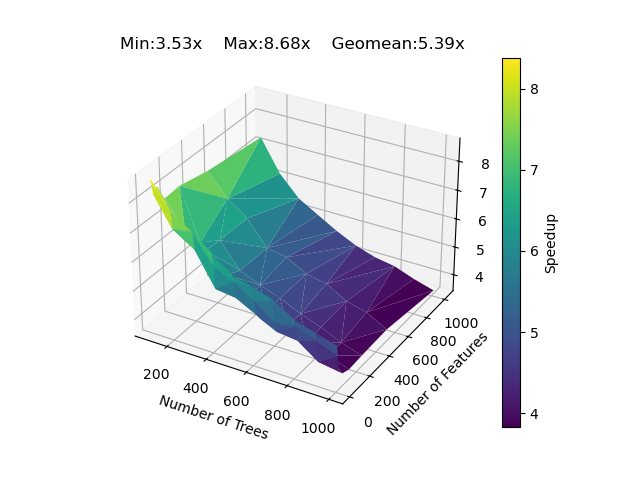
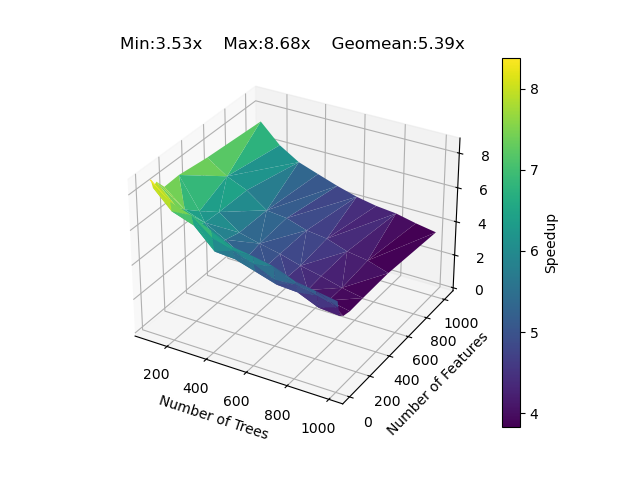
Change 3d plot axis limit

diff --git a/results/python/analyze_random_model_benchmark_results.py b/results/python/analyze_random_model_benchmark_results.py
@@ -1,9 +1,9 @@
 import os
 import matplotlib.pyplot as plt
 
-batch_size = 512
-# file_path = "/home/ashwin/mlir-build/llvm-project/mlir/examples/treebeard/results/thedeep/gpu/random_models/20240320/random_cmp_output_mp.txt"
-file_path = "/home/ashwin/mlir-build/llvm-project/mlir/examples/treebeard/results/thedeep/gpu/random_models/20240320/random_cmp_output_mp_b512.txt"
+batch_size = 4096
+file_path = "/home/ashwin/mlir-build/llvm-project/mlir/examples/treebeard/results/thedeep/gpu/random_models/20240320/random_cmp_output_mp.txt"
+# file_path = "/home/ashwin/mlir-build/llvm-project/mlir/examples/treebeard/results/thedeep/gpu/random_models/20240320/random_cmp_output_mp_b512.txt"
 # file_path = "/home/ashwin/mlir-build/llvm-project/mlir/examples/treebeard/results/thedeep/gpu/random_models/20240320/random_cmp_output_mp_b4k_ft500.txt"
 
 # read the file line by line and filter out lines that don't start with "/"
@@ -53,47 +53,46 @@ import scipy.stats as stats
 # print(stats.gmean(df["tb_kernel_speedup"]))
 #print(df["tb_kernel_speedup"].prod() ** (1.0 / df.shape[0]))
 
-# for depth in range(6, 9):
-#     # get entries with tree_depth == depth
-#     df_depth = df[df["tree_depth"] == depth]
-#     # print(df_depth.shape)
+for depth in range(6, 9):
+    # get entries with tree_depth == depth
+    df_depth = df[df["tree_depth"] == depth]
+    # print(df_depth.shape)
 
-#     # plot a 3-d graph of num_trees, num_features and tb_kernel_speedup
-#     import matplotlib.pyplot as plt
-#     from mpl_toolkits.mplot3d import Axes3D
+    # plot a 3-d graph of num_trees, num_features and tb_kernel_speedup
 
-#     fig = plt.figure()
-#     ax = fig.add_subplot(111, projection='3d')
+    fig = plt.figure()
+    ax = fig.add_subplot(111, projection='3d')
 
-#     # 3D scatter plot
-#     # ax.scatter3D(df_depth["num_trees"], df_depth["num_features"], df_depth["tb_kernel_speedup"], c='red')
-#     surf = ax.plot_trisurf(df_depth["num_trees"], df_depth["num_features"], df_depth["tb_kernel_speedup"], cmap='viridis')
+    # 3D scatter plot
+    # ax.scatter3D(df_depth["num_trees"], df_depth["num_features"], df_depth["tb_kernel_speedup"], c='red')
+    surf = ax.plot_trisurf(df_depth["num_trees"], df_depth["num_features"], df_depth["tb_kernel_speedup"], cmap='viridis')
 
-#     ax.set_xlabel('Number of Trees')
-#     ax.set_ylabel('Number of Features')
-#     ax.set_zlabel('Speedup')
-#     min_speedup = df_depth["tb_kernel_speedup"].min()
-#     max_speedup = df_depth["tb_kernel_speedup"].max()
-#     geomean_speedup = stats.gmean(df_depth["tb_kernel_speedup"])
-#     # limit the speedup values to 1 decimal digit
-#     plt.title(f"Min:{min_speedup:.2f}x    Max:{max_speedup:.2f}x    Geomean:{geomean_speedup:.2f}x")
-#     plt.colorbar(surf, label='Speedup')
-#     plt.savefig(f'kernel_speedup_b{batch_size}_depth{depth}.png')
-#     # plt.show()
+    ax.set_xlabel('Number of Trees')
+    ax.set_ylabel('Number of Features')
+    ax.set_zlabel('Speedup')
+    min_speedup = df_depth["tb_kernel_speedup"].min()
+    ax.set_zlim3d(zmin=0)
+    max_speedup = df_depth["tb_kernel_speedup"].max()
+    geomean_speedup = stats.gmean(df_depth["tb_kernel_speedup"])
+    # limit the speedup values to 1 decimal digit
+    plt.title(f"Min:{min_speedup:.2f}x    Max:{max_speedup:.2f}x    Geomean:{geomean_speedup:.2f}x")
+    plt.colorbar(surf, label='Speedup')
+    plt.savefig(f'kernel_speedup_b{batch_size}_depth{depth}.png')
+    # plt.show()
 
-# Sort data in ascending order
-sorted_values = df["tb_kernel_speedup"].sort_values(ascending=True)
+# # Sort data in ascending order
+# sorted_values = df["tb_kernel_speedup"].sort_values(ascending=True)
 
-# Calculate relative cumulative frequencies
-percentages = sorted_values.rank(pct=True)
-plt.plot(sorted_values, percentages) #, marker='o', linestyle='-')
-plt.xlabel('SilvanForge Speedup vs RAPIDS', fontsize=14)
-plt.ylabel('Cumulative Frequency', fontsize=14)
-plt.tick_params(labelsize=14)
-if batch_size == 4096:
-  plt.axis([0, 7, -0.05, 1.05])
-# else:
-#   plt.axis([0, 9, -0.05, 1.05])
-# plt.title('Ogive (CDF) of Values')
-plt.grid(True)
-plt.savefig(f'ogive_b{batch_size}.png')
+# # Calculate relative cumulative frequencies
+# percentages = sorted_values.rank(pct=True)
+# plt.plot(sorted_values, percentages) #, marker='o', linestyle='-')
+# plt.xlabel('SilvanForge Speedup vs RAPIDS', fontsize=14)
+# plt.ylabel('Cumulative Frequency', fontsize=14)
+# plt.tick_params(labelsize=14)
+# if batch_size == 4096:
+#   plt.axis([0, 7, -0.05, 1.05])
+# # else:
+# #   plt.axis([0, 9, -0.05, 1.05])
+# # plt.title('Ogive (CDF) of Values')
+# plt.grid(True)
+# plt.savefig(f'ogive_b{batch_size}.png')
